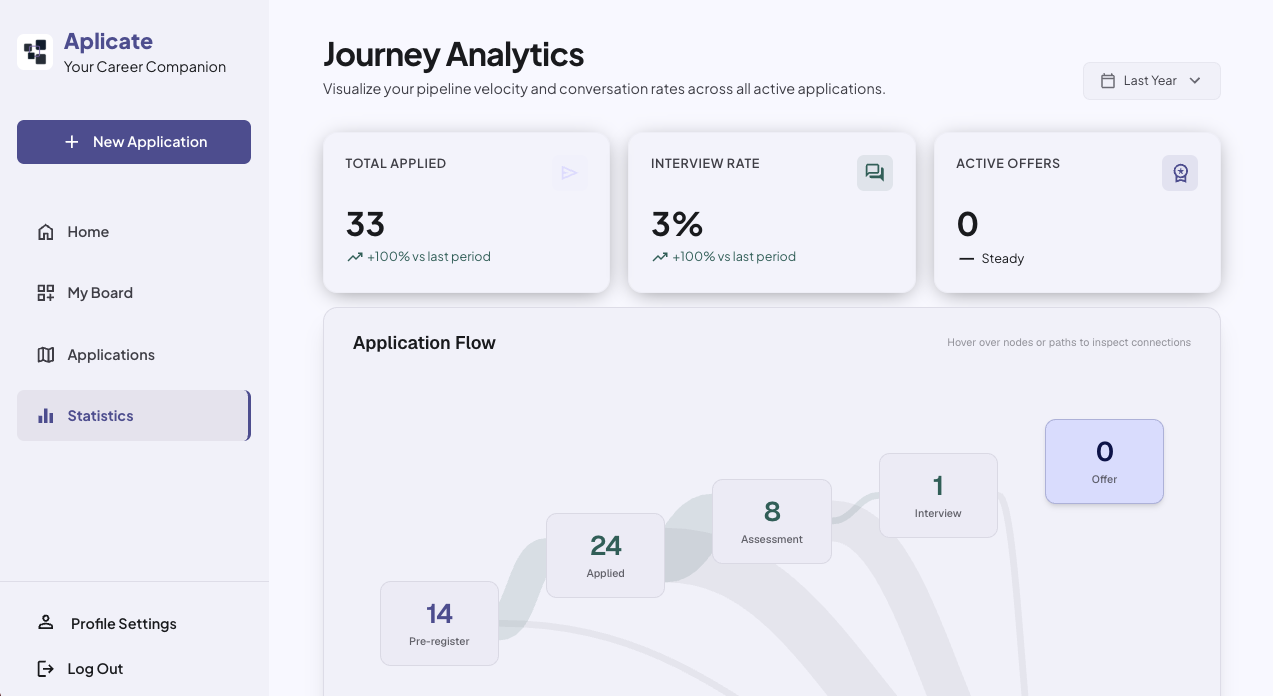
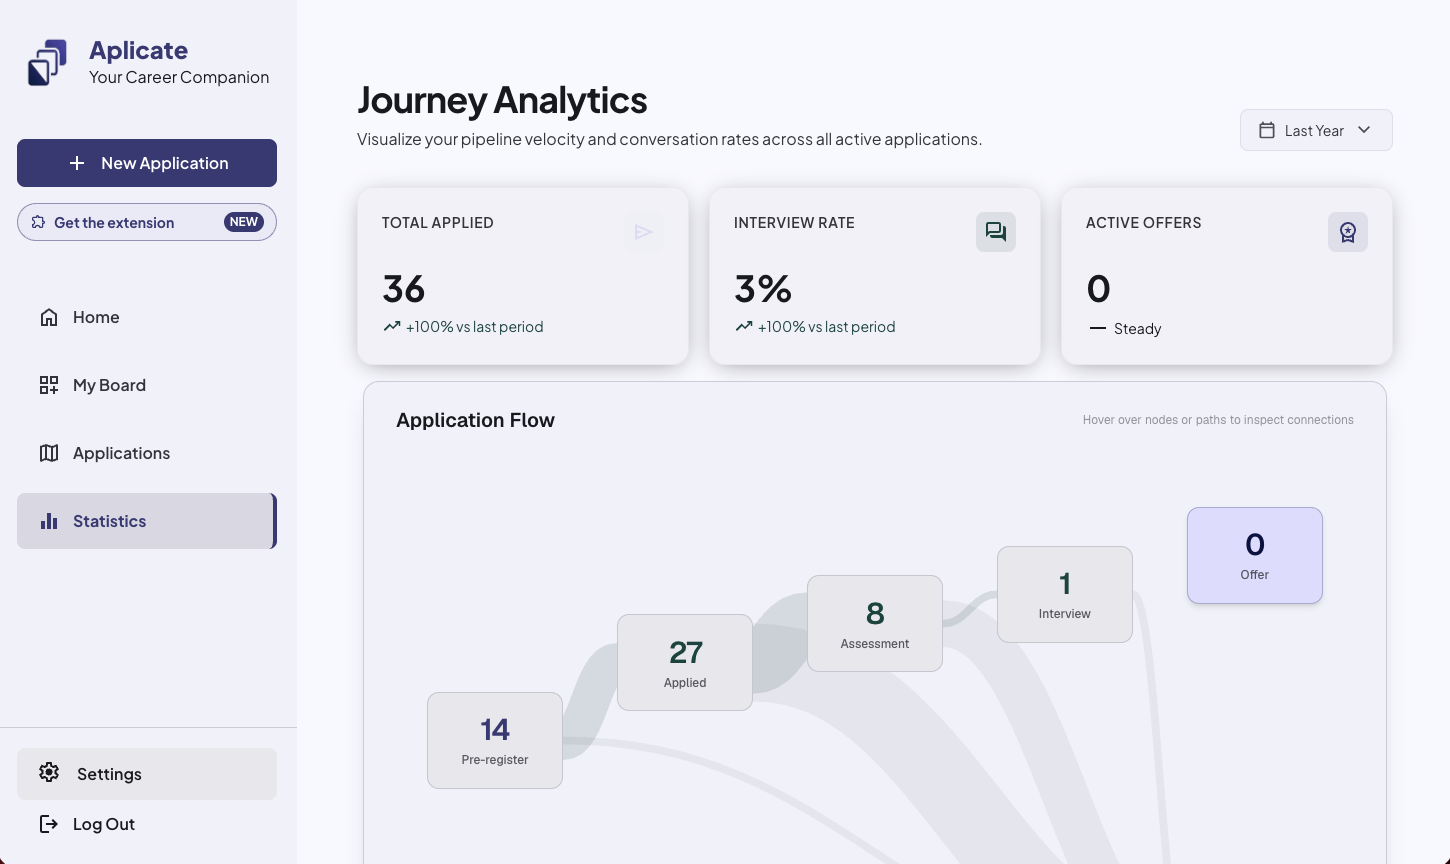
Tightened landing card and created demo data button for guest users

diff --git a/app/(app)/home/HomePage.tsx b/app/(app)/home/HomePage.tsx
@@ -9,6 +9,7 @@ import { useApplications } from "@/hooks/use-applications";
 import { useRouter } from "next/navigation";
 import { useSidebar } from "@/hooks/use-sidebar";
 import { capitalize } from "@/lib/capitalize";
+import DemoButton from "./components/demoButton";
 
 export default function Home() {
   const today = new Date();
@@ -104,38 +105,45 @@ export default function Home() {
 
   return (
     <div className="flex flex-col w-full h-full font-jakarta py-10 md:py-20 px-5 md:px-15 gap-4 bg-background text-on-background">
-      <h3 className="text-outline text-sm">
-        {daysOfTheWeek[today.getDay()]}, {months[today.getMonth()]}{" "}
-        {today.getDate()}
-      </h3>
-      <h2
-        onClick={() => setIsOpen(!isOpen)}
-        className="text-4xl font-bold text-primary tracking-tight"
-      >
-        Good {GetGreeting(today.getHours())}, {username}.
-      </h2>
-      <h2 className="text-on-surface-variant max-w-xl">
-        Keep working at it. You have{" "}
-        <span className="text-secondary">
-          {interviewApplications.length} interviews
-        </span>{" "}
-        scheduled for next week. Take a moment to breathe before reviewing your
-        board.
-      </h2>
-      {user == null && (
-        <h3 className="flex -mt-1 font-bold text-outline text-xs items-center gap-1">
-          <svg
-            xmlns="http://www.w3.org/2000/svg"
-            height="12px"
-            viewBox="0 -960 960 960"
-            width="12px"
-            fill="currentColor"
+      <div className="flex justify-between items-center">
+        <div className="flex flex-col gap-4">
+          <h3 className="text-outline text-sm">
+            {daysOfTheWeek[today.getDay()]}, {months[today.getMonth()]}{" "}
+            {today.getDate()}
+          </h3>
+          <h2
+            onClick={() => setIsOpen(!isOpen)}
+            className="text-4xl font-bold text-primary tracking-tight"
           >
-            <path d="M792-56 686-160H260q-92 0-156-64T40-380q0-77 47.5-137T210-594q3-8 6-15.5t6-16.5L56-792l56-56 736 736-56 56ZM260-240h346L284-562q-2 11-3 21t-1 21h-20q-58 0-99 41t-41 99q0 58 41 99t99 41Zm185-161Zm419 191-58-56q17-14 25.5-32.5T840-340q0-42-29-71t-71-29h-60v-80q0-83-58.5-141.5T480-720q-27 0-52 6.5T380-693l-58-58q35-24 74.5-36.5T480-800q117 0 198.5 81.5T760-520q69 8 114.5 59.5T920-340q0 39-15 72.5T864-210ZM593-479Z" />
-          </svg>
-          Progress saved to this browser.
-        </h3>
-      )}
+            Good {GetGreeting(today.getHours())}, {username}.
+          </h2>
+          <h2 className="text-on-surface-variant max-w-xl">
+            Keep working at it. You have{" "}
+            <span className="text-secondary">
+              {interviewApplications.length} interviews
+            </span>{" "}
+            scheduled for next week. Take a moment to breathe before reviewing your
+            board.
+          </h2>
+          {user == null && (
+            <h3 className="flex -mt-1 font-bold text-outline text-xs items-center gap-1">
+              <svg
+                xmlns="http://www.w3.org/2000/svg"
+                height="12px"
+                viewBox="0 -960 960 960"
+                width="12px"
+                fill="currentColor"
+              >
+                <path d="M792-56 686-160H260q-92 0-156-64T40-380q0-77 47.5-137T210-594q3-8 6-15.5t6-16.5L56-792l56-56 736 736-56 56ZM260-240h346L284-562q-2 11-3 21t-1 21h-20q-58 0-99 41t-41 99q0 58 41 99t99 41Zm185-161Zm419 191-58-56q17-14 25.5-32.5T840-340q0-42-29-71t-71-29h-60v-80q0-83-58.5-141.5T480-720q-27 0-52 6.5T380-693l-58-58q35-24 74.5-36.5T480-800q117 0 198.5 81.5T760-520q69 8 114.5 59.5T920-340q0 39-15 72.5T864-210ZM593-479Z" />
+              </svg>
+              Progress saved to this browser.
+            </h3>
+          )}
+        </div>
+        {user == null && 
+        <DemoButton setApplications={(e) => setApplications(e)} />
+        }
+      </div>
       {/** Cards */}
       <div className="grid grid-cols-1 md:grid-cols-2 gap-8 mt-10">
         {/** Active pipeline */}
@@ -233,7 +241,7 @@ export default function Home() {
             </h2>
           </div>
         </div>
-        {/** Active pipeline */}
+        {/** Apps to follow up */}
         <div className="flex w-full relative flex-col hover:bg-surface-container-low bg-surface-container-low/50 backdrop-blur-xl transition-colors duration-500 rounded-2xl p-8 border border-outline-variant/5">
           <div className="flex z-10 w-full justify-between items-start">
             <h2 className="font-label-md text-xs font-semibold text-outline tracking-wider uppercase">

diff --git a/app/(app)/home/components/demoData.tsx b/app/(app)/home/components/demoData.tsx
@@ -1,0 +1,117 @@
+import { Application, Status } from "@/lib/types";
+
+const daysAgo = (days: number) => new Date(Date.now() - days * 24 * 60 * 60 * 1000);
+const daysFromNow = (days: number) => new Date(Date.now() + days * 24 * 60 * 60 * 1000);
+
+export const demoApplications: Application[] = [
+  {
+    id: "demo_1",
+    userId: "demo",
+    title: "Senior Frontend Engineer",
+    company: "Vercel", // Tech Industry
+    employmentType: "Full-time",
+    foundOn: "LinkedIn",
+    status: Status.Interview,
+    location: "Remote (US)",
+    applied: daysAgo(14),
+    lastUpdate: daysAgo(2),
+    journey: "Apply,Assessment,Interview",
+    notes: "They asked a lot about Next.js App Router caching. Next round is system design.",
+    pay: "$160k - $190k",
+    minPay: 160000,
+    maxPay: 190000,
+    currency: "USD",
+    rating: 5,
+    followUpDate: daysFromNow(2),
+    autoUpdated: true
+  },
+  {
+    id: "demo_2",
+    userId: "demo",
+    title: "Investment Banking Analyst",
+    company: "Goldman Sachs", // Finance Industry
+    employmentType: "Full-time",
+    foundOn: "Company Site",
+    status: Status.Rejected,
+    location: "New York, NY",
+    applied: daysAgo(30),
+    lastUpdate: daysAgo(5),
+    followUpDate: daysAgo(5),
+    journey: "Apply,Assessment,Interview,Rejected",
+    jobDescription: "Analyze market trends and prepare financial models for corporate clients.",
+    url: "https://goldmansachs.com/careers",
+    rating: 4,
+    autoUpdated: false
+  },
+  {
+    id: "demo_3",
+    userId: "demo",
+    title: "Clinical Research Coordinator",
+    company: "Pfizer", // Healthcare/Pharma Industry
+    employmentType: "Full-time",
+    foundOn: "Indeed",
+    status: Status.Apply,
+    location: "Boston, MA",
+    applied: daysAgo(1),
+    lastUpdate: daysAgo(1),
+    journey: "Apply",
+    notes: "Need to tailor my resume to highlight clinical trials experience before submitting.",
+    mainContact: "Dr. Alan Grant",
+    rating: 3,
+    closingDate: daysFromNow(5),
+    autoUpdated: false
+  },
+  {
+    id: "demo_4",
+    userId: "demo",
+    title: "Operations Manager",
+    company: "Delta Air Lines", // Aviation/Transportation Industry
+    status: Status.Assessment,
+    location: "Atlanta, GA",
+    applied: daysAgo(7),
+    lastUpdate: daysAgo(1),
+    journey: "Apply,Assessment",
+    notes: "Aviation regulations assessment. Complete within 72 hours.",
+    url: "https://delta.com/careers",
+    minPay: 95000,
+    maxPay: 120000,
+    currency: "USD",
+    rating: 4,
+    followUpDate: daysFromNow(1),
+    autoUpdated: true
+  },
+  {
+    id: "demo_5",
+    userId: "demo",
+    title: "Supply Chain Logistics Specialist",
+    company: "Nike",
+    employmentType: "Full-time",
+    status: Status.Offer,
+    location: "Beaverton, OR",
+    applied: daysAgo(45),
+    lastUpdate: daysAgo(0),
+    journey: "Apply,Assessment,Interview,Offer",
+    pay: "$85,000 + Benefits",
+    minPay: 85000,
+    currency: "USD",
+    rating: 5,
+    autoUpdated: true
+  },
+  {
+    id: "demo_6",
+    userId: "demo",
+    title: "Sustainable Energy Engineer",
+    company: "NextEra Energy", // Energy/Utilities Industry
+    employmentType: "Full-time",
+    foundOn: "Referral",
+    status: Status.PreRegister,
+    location: "Austin, TX",
+    applied: new Date(), 
+    lastUpdate: new Date(),
+    journey: "PreRegister",
+    notes: "Met the project lead at an eco-tech summit. Looking for openings next month.",
+    mainContact: "Elena Rostova",
+    rating: 4,
+    autoUpdated: false
+  }
+];

diff --git a/app/(app)/home/components/demoButton.tsx b/app/(app)/home/components/demoButton.tsx
@@ -1,0 +1,71 @@
+import { useApplications } from "@/hooks/use-applications"
+import { demoApplications } from "./demoData";
+import { useEffect, useState } from "react";
+import { Application } from "@/lib/types";
+
+interface DemoButtonProps {
+    setApplications(apps: Application[]): void
+}
+export default function DemoButton({ setApplications }: DemoButtonProps) {
+    const { getApplications, createApplications, deleteApplication } = useApplications();
+    const [hasDemo, setHasDemo] = useState(false);
+
+    async function handleData(add: boolean) {
+        if (add) {
+            await createApplications(demoApplications);
+            setHasDemo(true);
+            setApplications(await getApplications());
+        } else {
+            for (let i = 1; i <= demoApplications.length; i++) {
+                await deleteApplication(`demo_${i}`);
+            }
+            setHasDemo(false);
+            setApplications(await getApplications());
+        }
+    }
+
+    useEffect(() => {
+      setInitial();
+    }, [])
+    
+
+    async function setInitial() {
+        const apps = await getApplications();
+        const hasDemoUser = apps.some(app => app.userId === "demo")
+        setHasDemo(hasDemoUser)
+    }
+
+    return (
+        <button
+            onClick={() => handleData(!hasDemo)}
+            className="flex h-fit items-center justify-center py-3 px-3 font-semibold rounded-lg bg-primary text-on-primary hover:bg-primary/70 transition-colors duration-200 gap-3"
+        >
+            {!hasDemo ? 
+                <>
+                    <svg
+                    xmlns="http://www.w3.org/2000/svg"
+                    height="24px"
+                    viewBox="0 -960 960 960"
+                    width="24px"
+                    fill="currentColor"
+                    >
+                        <path d="M440-440H200v-80h240v-240h80v240h240v80H520v240h-80v-240Z" />
+                    </svg>
+                    Add Demo Data
+                </>
+                :
+                <>
+                    <svg 
+                    xmlns="http://www.w3.org/2000/svg" 
+                    height="24px" 
+                    viewBox="0 -960 960 960" 
+                    width="24px" 
+                    fill="currentColor">
+                        <path d="M200-440v-80h560v80H200Z"/>
+                    </svg>
+                    Remove Demo Data
+                </>
+            }
+        </button>
+    )
+}

diff --git a/app/page.tsx b/app/page.tsx
@@ -38,19 +38,10 @@ export default function Home() {
           initial="hidden"
           animate="visible"
           variants={staggerContainer}
-          className="flex flex-col items-center pt-25 md:pt-40 pb-20 text-center relative max-w-5xl mx-auto px-4"
+          className="flex flex-col items-center pt-25 md:pt-30 pb-20 text-center relative max-w-5xl mx-auto px-4"
         >
           {/* Ambient background glow */}
           <div className="absolute top-1/4 left-1/2 -translate-x-1/2 -translate-y-1/2 w-125 h-62.5 bg-primary/10 blur-[120px] rounded-full pointer-events-none" />
-
-          {/** Feature Pill Badge */}
-          <motion.div
-            variants={fadeInUp}
-            className="inline-flex items-center gap-2 px-3 py-1.5 rounded-full bg-surface-container-high border border-surface-container-highest text-xs font-medium tracking-wide text-primary"
-          >
-            <span className="flex h-2 w-2 rounded-full bg-primary animate-pulse" />
-            100% Frictionless Tracking
-          </motion.div>
 
           {/** Main Title Header */}
           <motion.h2
@@ -108,7 +99,7 @@ export default function Home() {
           whileInView="visible"
           viewport={{ once: true, margin: "-100px" }}
           variants={fadeInUp}
-          className="p-5 rounded-2xl mt-10 border border-surface-container-highest max-w-5xl mx-auto px-4"
+          className="p-5 rounded-2xl border border-surface-container-highest max-w-5xl mx-auto px-4"
         >
           <Image
             src={analyticsLight}

diff --git a/stores/applications/local-application-store.ts b/stores/applications/local-application-store.ts
@@ -17,7 +17,7 @@ export class LocalApplicationStore implements ApplicationStoreInterface {
     }
 
     async createApplication(application: Application): Promise<void> {
-        application.id = crypto.randomUUID();
+        application.id = application.id ? application.id : crypto.randomUUID();
         const data = localStorage.getItem('applications');
         var applications = data ? JSON.parse(data) as Application[] : [];
         applications.push(application);
@@ -25,7 +25,7 @@ export class LocalApplicationStore implements ApplicationStoreInterface {
     }
 
     async createApplications(applications: Application[]): Promise<void> {
-        applications.forEach((app) => {app.id = crypto.randomUUID();})
+        applications.forEach((app) => {app.id = app.id ? app.id : crypto.randomUUID();})
         const data = localStorage.getItem('applications');
         var existing = data ? JSON.parse(data) as Application[] : [];
         const toSave = existing.concat(applications);

diff --git a/stores/applications/supabase-application-store.ts b/stores/applications/supabase-application-store.ts
@@ -85,7 +85,8 @@ export class SupabaseApplicationStore implements ApplicationStoreInterface {
         const json = localStorage.getItem('applications');
         localStorage.removeItem('applications');
         if (json != undefined && json!.length > 0) {
-            const applications = json ? JSON.parse(json) as Application[] : [];
+            var applications = json ? JSON.parse(json) as Application[] : [];
+            applications = applications.filter(a => a.userId != "demo")
             const userId = (await this.client.auth.getUser()).data.user?.id ?? ""
 
             const applicationsToSync = applications.map((app) => {

diff --git a/app/(app)/statistics/StatisticsPage.tsx b/app/(app)/statistics/StatisticsPage.tsx
@@ -50,7 +50,7 @@ function filterApplicationsBySelectedPeriod(
 }
 
 export default function Statistics() {
-  const [selected, setSelected] = useState("Last 30 Days");
+  const [selected, setSelected] = useState("Last 90 Days");
   const [applications, setApplications] = useState([] as Application[]);
   const [slices2, setSlices2] = useState([] as PieSlice[]);
   const options = ["Last 30 Days", "Last 90 Days", "Last Year", "All Time"];

diff --git a/lib/capitalize.ts b/lib/capitalize.ts
@@ -1,4 +1,5 @@
 export function capitalize(word: string): string {
+    if (word == null || word.length == 0) return "";
     const firstLetter = word.substring(0, 1).toUpperCase();
     const lastLetters = word.substring(1, word.length);
     return firstLetter.concat(lastLetters);
